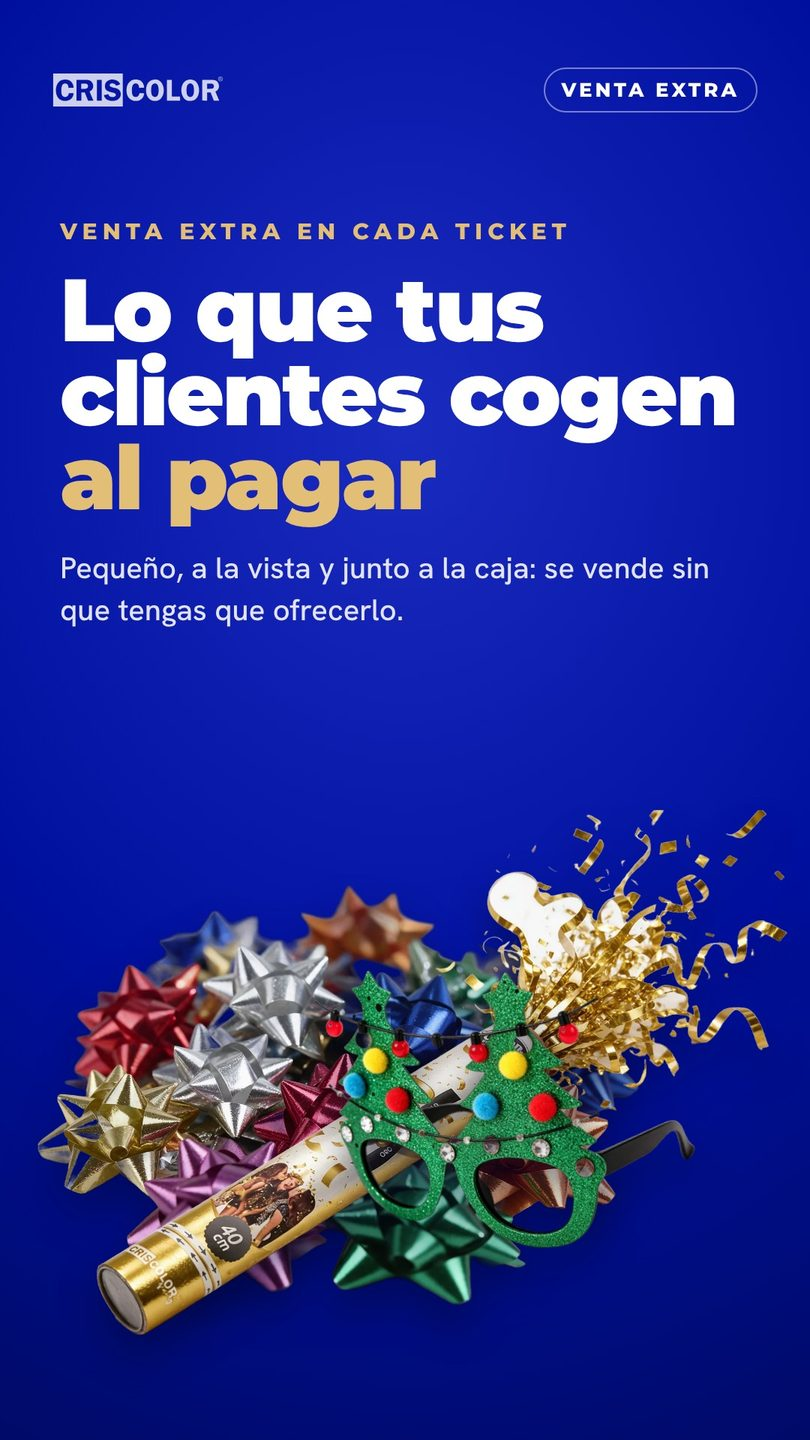
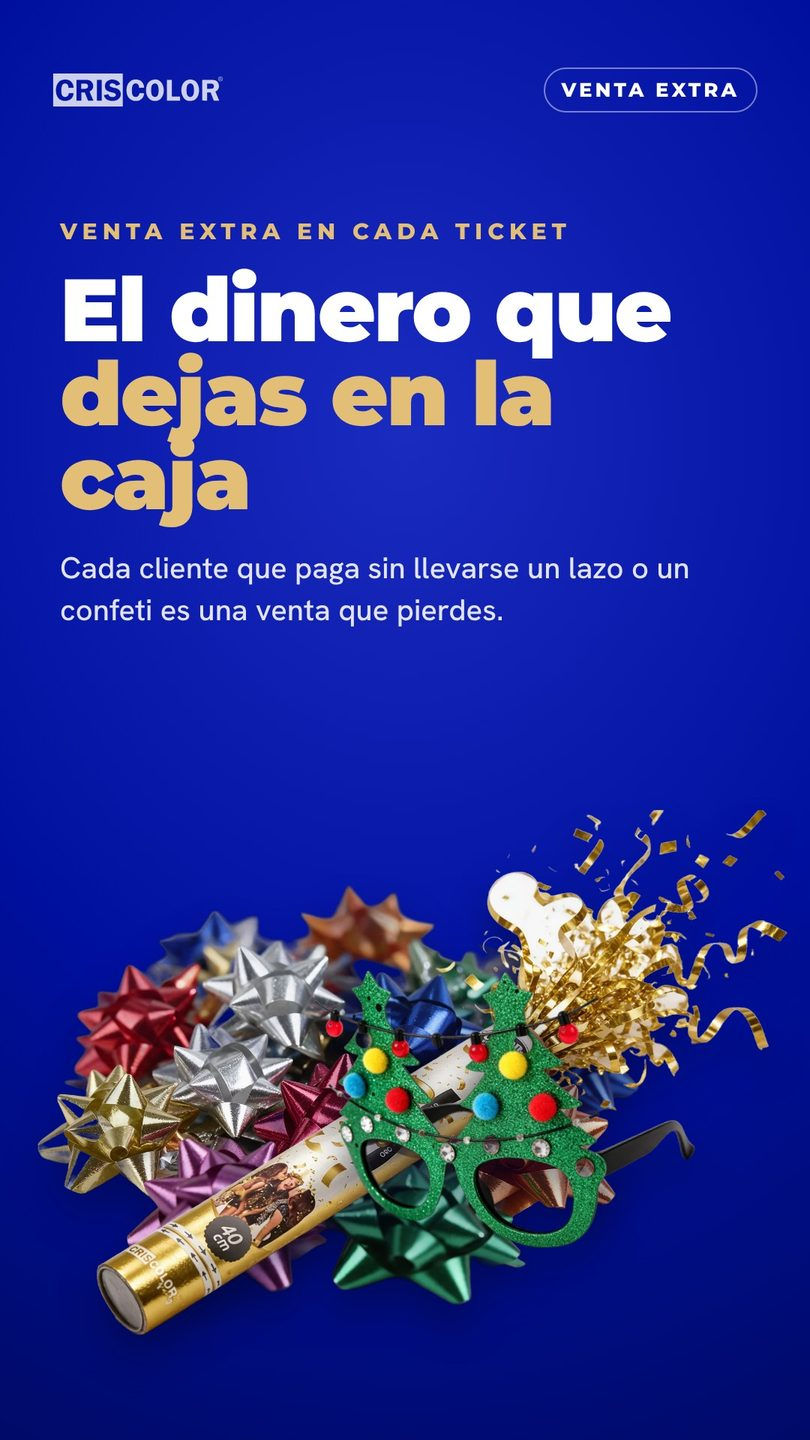
Historias más agresivas en venta y stickers más pequeños; aprobados reiniciados (w45-v3)
Claude-Session: https://claude.ai/code/session_016vX2tAnYJNsb3voomsbycX

Changed region(s): [[0.0617, 0.1875, 0.9259, 0.4375]]

diff --git a/data/weeks.js b/data/weeks.js
@@ -1,13 +1,13 @@
 /* Contenido por semanas. Imágenes en /img como <id>-<n>.jpg. Cambiar el id de la semana reinicia sus aprobados. */
 window.WEEKS = [
  {
-  "id": "w45-v2",
+  "id": "w45-v3",
   "label": "Semana 45 · 2–6 nov",
   "title": "Semana del <em>2 al 6</em> de noviembre",
   "items": [
    {
     "id": "s45-lun",
-    "v": 4,
+    "v": 5,
     "type": "story",
     "day": "Lunes",
     "date": "2 nov",
@@ -17,7 +17,7 @@ window.WEEKS = [
    },
    {
     "id": "p45-mar",
-    "v": 4,
+    "v": 5,
     "type": "post",
     "day": "Martes",
     "date": "3 nov",
@@ -28,7 +28,7 @@ window.WEEKS = [
    },
    {
     "id": "s45-mie",
-    "v": 4,
+    "v": 5,
     "type": "story",
     "day": "Miércoles",
     "date": "4 nov",
@@ -38,7 +38,7 @@ window.WEEKS = [
    },
    {
     "id": "p45-jue",
-    "v": 4,
+    "v": 5,
     "type": "post",
     "day": "Jueves",
     "date": "5 nov",
@@ -49,7 +49,7 @@ window.WEEKS = [
    },
    {
     "id": "s45-vie",
-    "v": 4,
+    "v": 5,
     "type": "story",
     "day": "Viernes",
     "date": "6 nov",

diff --git a/index.html b/index.html
@@ -31,7 +31,7 @@
   </form>
 </div>
 
-<script src="/data/weeks.js?v=6"></script>
+<script src="/data/weeks.js?v=7"></script>
 <script src="/assets/app.js?v=4"></script>
 </body>
 </html>
